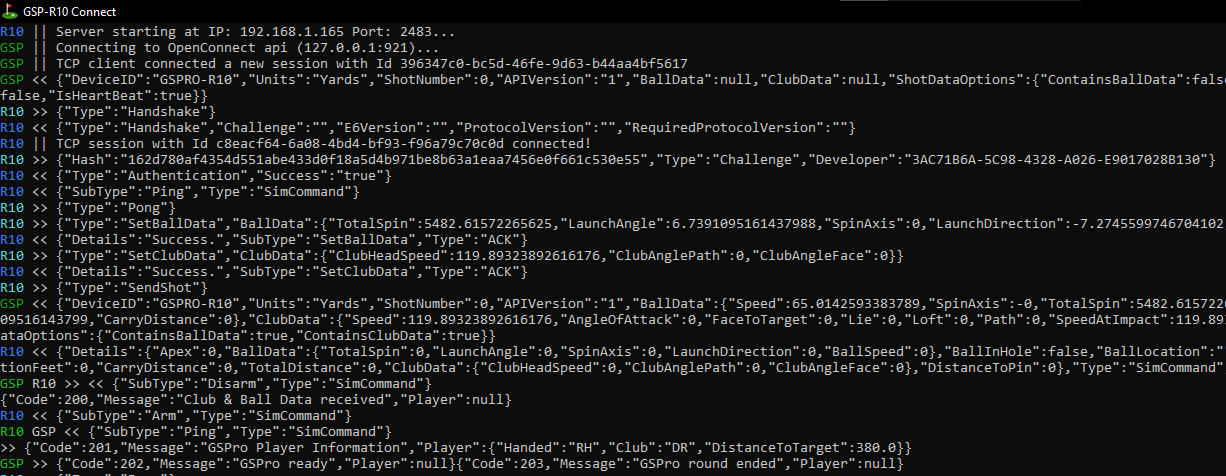
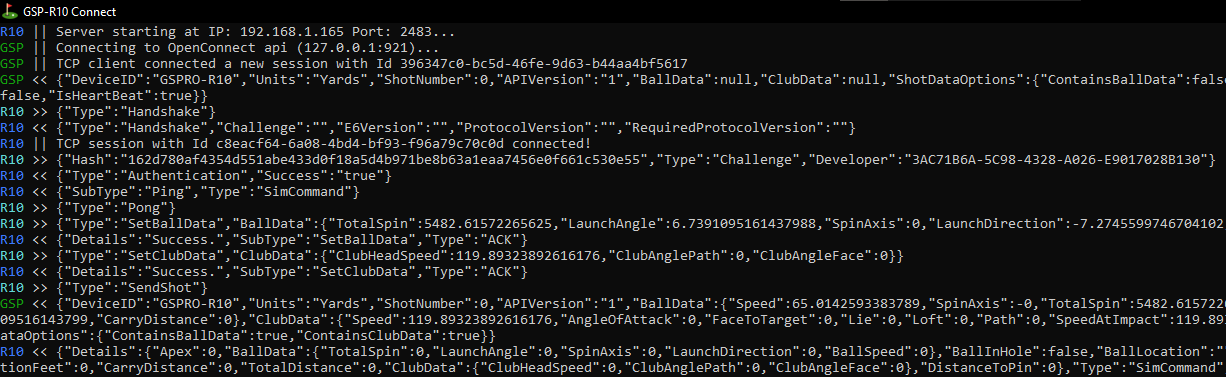
add readme (#2)
* add readme

* crop picture

Changed region(s): [[0.0, 0.0, 1.0, 1.0]]

diff --git a/README.md b/README.md
@@ -1,1 +1,22 @@
 # gsp-r10-adapter
+
+Utility to bridge R10 launch monitor to GSPro. Starts an "E6 Connect" compatible server and translates the messages into GSPro OpenConnect format.
+
+Heavily inspired by this project https://github.com/travislang/gspro-garmin-connect-v2. 
+
+The goal of this project was to provide an ultra lightweight alterntive to the current offering, with a focus on API transparency.
+
+![Sample](screenshot.png)
+
+## Running
+
+### From release
+
+- Download either the standalone or net6 package from the release page. Extract zip to your local machine and run the exe file.
+  - Use the standalone package if you are unsure whether your computer has a dotnet runtime installed
+  - Use the net6 package if you believe your computer has a dotnet runtime installed.
+
+### From Source
+
+- Install a dotnet 6 sdk if you don't have one already
+- `dotnet run` from project directory
